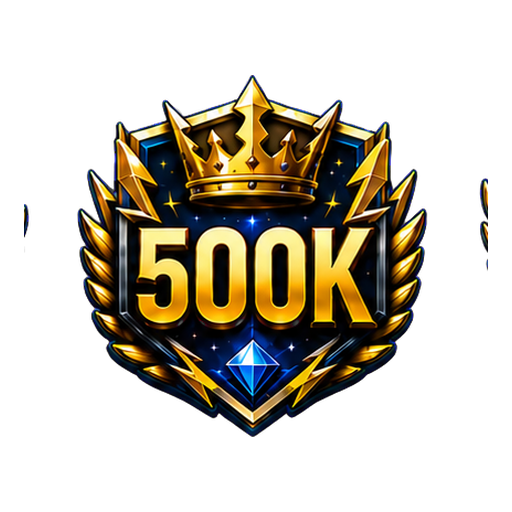
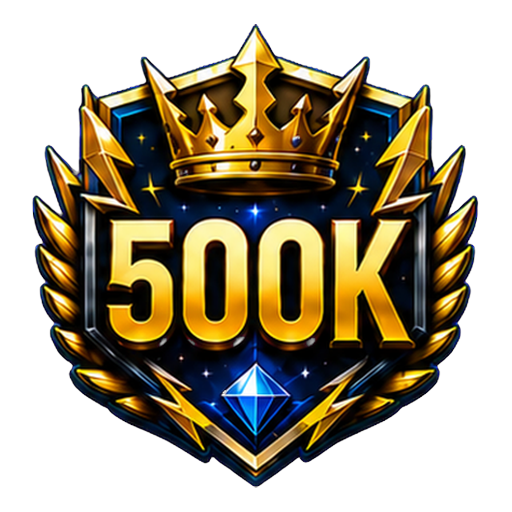
fix(account): resize oversized 500K challenge badge
The 500K badge PNG filled more of its canvas than sibling badges, making
it look disproportionately large in the challenge badge case; rescale
the artwork to match sibling padding and shrink its slot's size fraction
to match visually.

diff --git a/implementation/mobile/runiac_app/lib/features/account/presentation/widgets/account_challenge_badge_case.dart b/implementation/mobile/runiac_app/lib/features/account/presentation/widgets/account_challenge_badge_case.dart
@@ -22,7 +22,7 @@ class AccountChallengeBadgeCase extends StatelessWidget {
     _BadgeSlot(0.5, 0.51, 0.245, ChallengeTierId.k200),
     _BadgeSlot(0.78, 0.50, 0.245, ChallengeTierId.k250),
     _BadgeSlot(0.226, 0.795, 0.265, ChallengeTierId.k300),
-    _BadgeSlot(0.5, 0.794, 0.33, ChallengeTierId.k500),
+    _BadgeSlot(0.5, 0.794, 0.27, ChallengeTierId.k500),
     _BadgeSlot(0.785, 0.8, 0.28, ChallengeTierId.k1000),
   ];
 